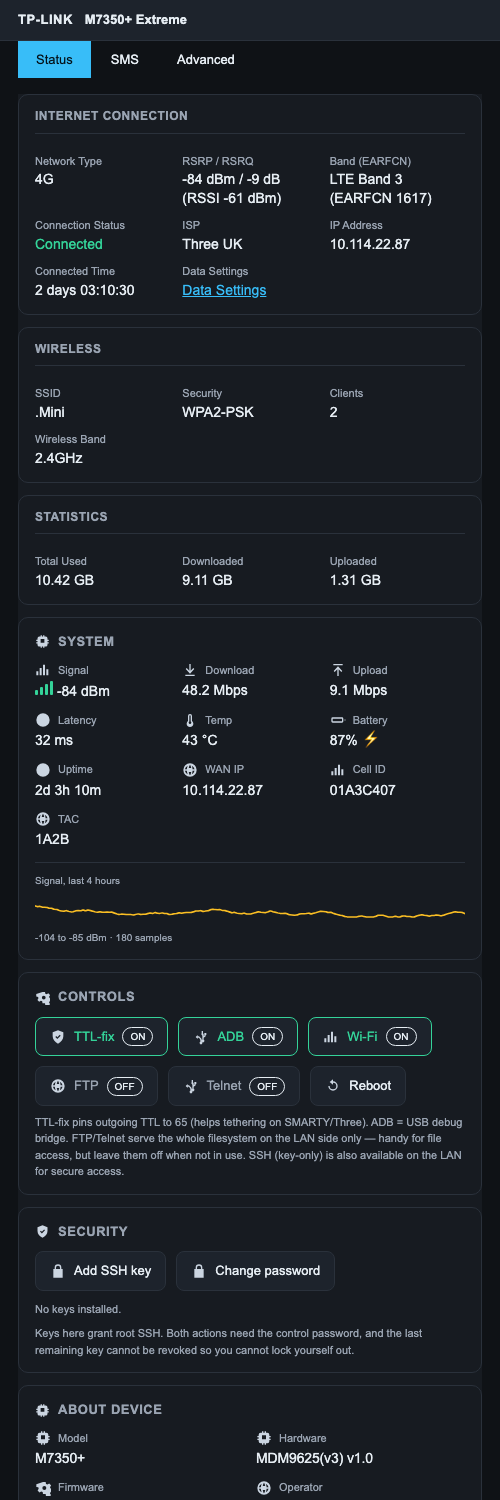
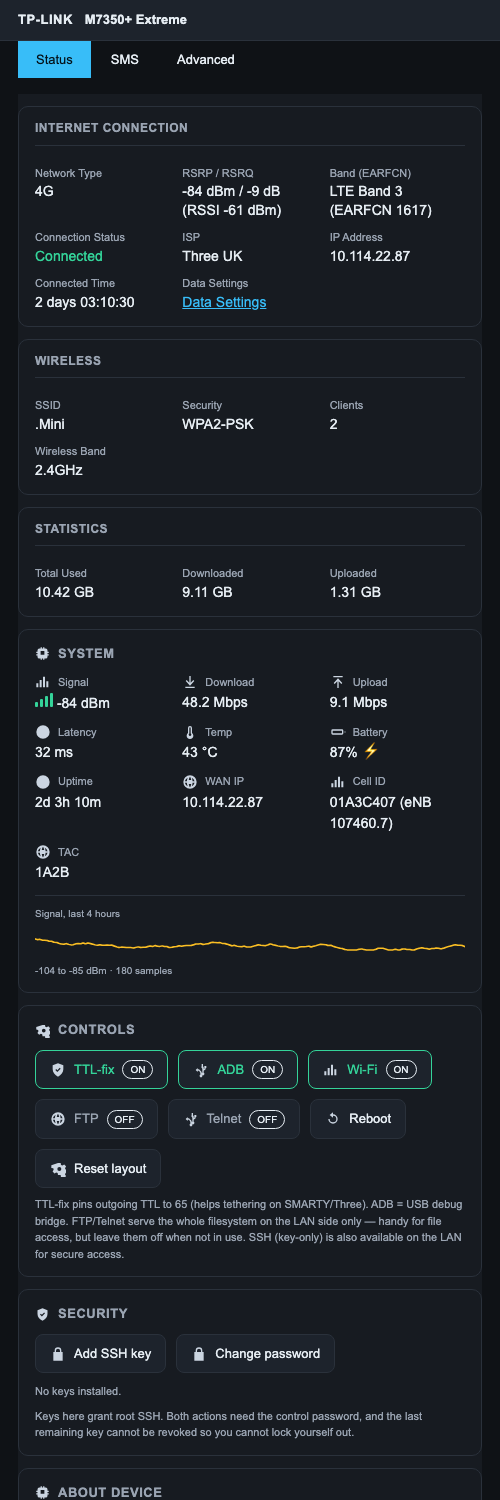
Release 2.4.0: arrangeable dashboard
Screenshots regenerated for the new layout, including the ICCID and Carrier
tiles and the Reset layout control.

diff --git a/README.md b/README.md
@@ -1,6 +1,6 @@
 # TP-Link M7350 — LTE signal stats + dark UI mod
 
-> **Use [v2.3.1](https://github.com/louij2/tp-link-m7350-signal-mod/releases) or
+> **Use [v2.4.0](https://github.com/louij2/tp-link-m7350-signal-mod/releases) or
 > later.** Earlier versions were progressively less safe by default: v2.0.0
 > shipped the optional root tools (FTP/Telnet/web console) with **no
 > authentication**; v2.1.0 added a password gate but still fell back to

diff --git a/CHANGELOG.md b/CHANGELOG.md
@@ -2,7 +2,7 @@
 
 All notable changes to the M7350 Extreme mod are documented here.
 
-## [Unreleased]
+## [2.4.0] — 2026-08-31  ·  **arrangeable dashboard**
 
 ### Fixed
 - **The firmware's own status cards had stopped appearing.** They live inside
